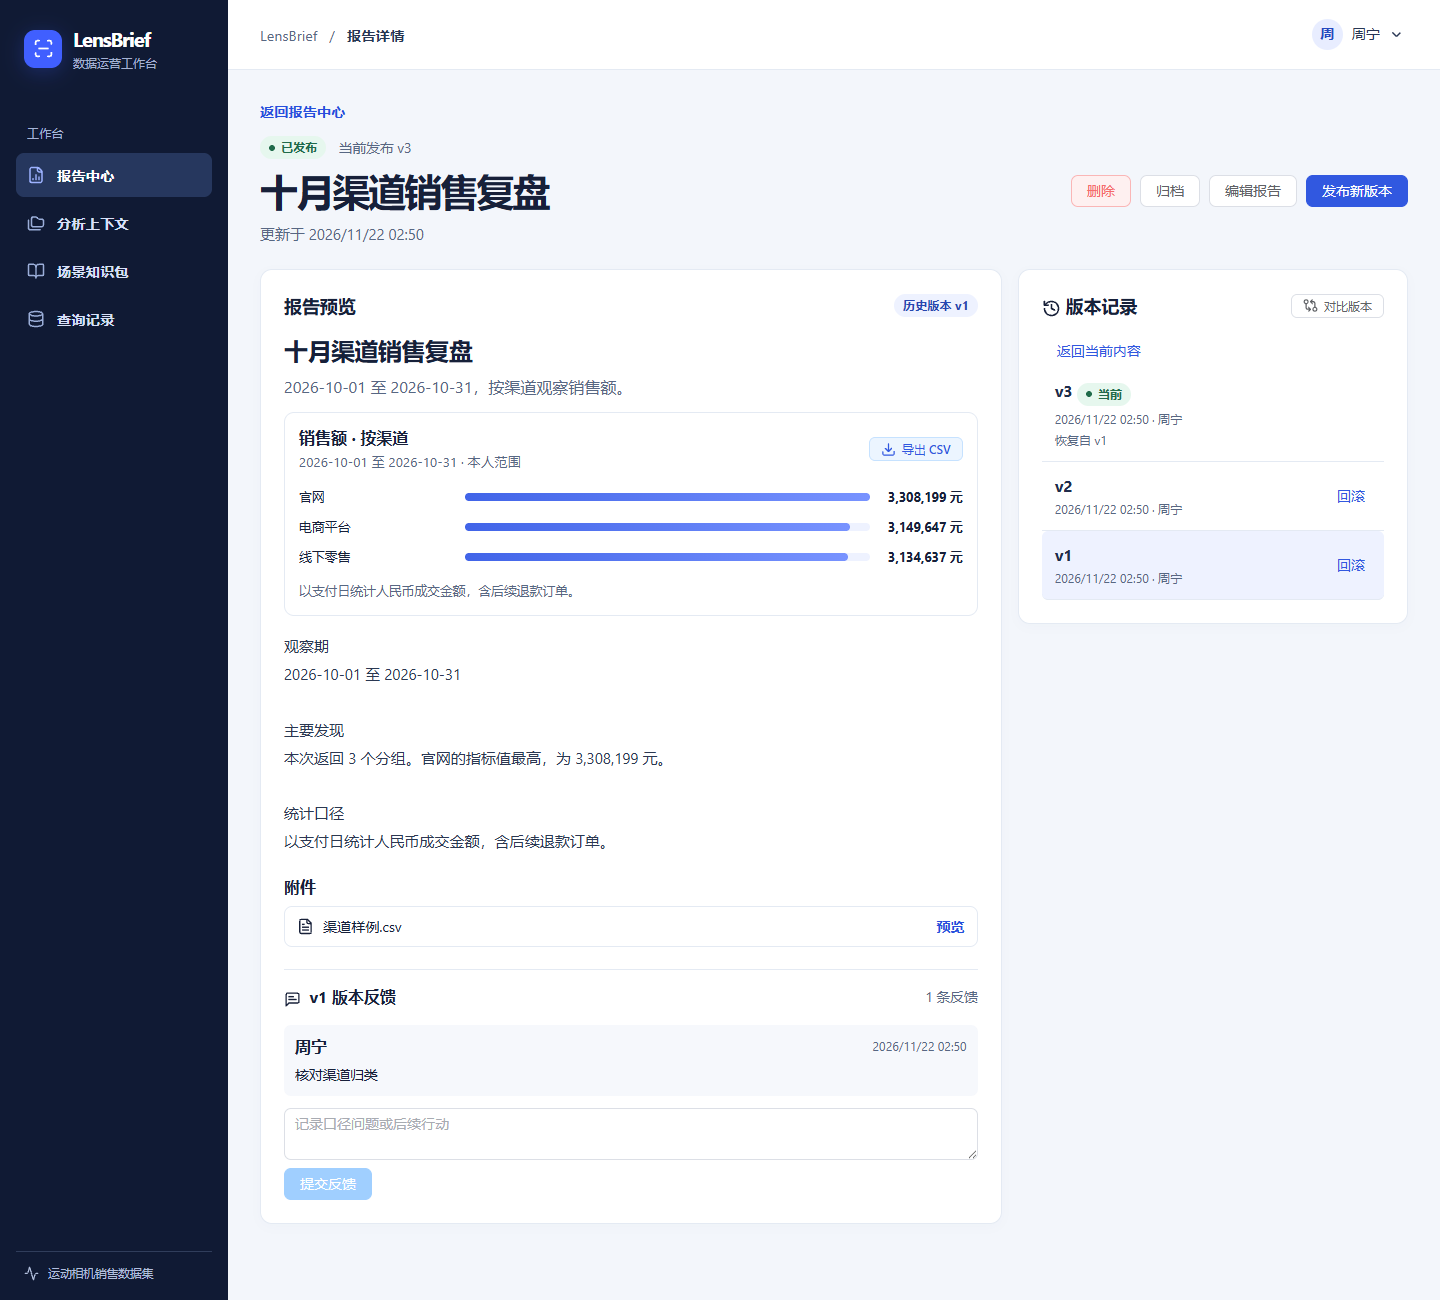
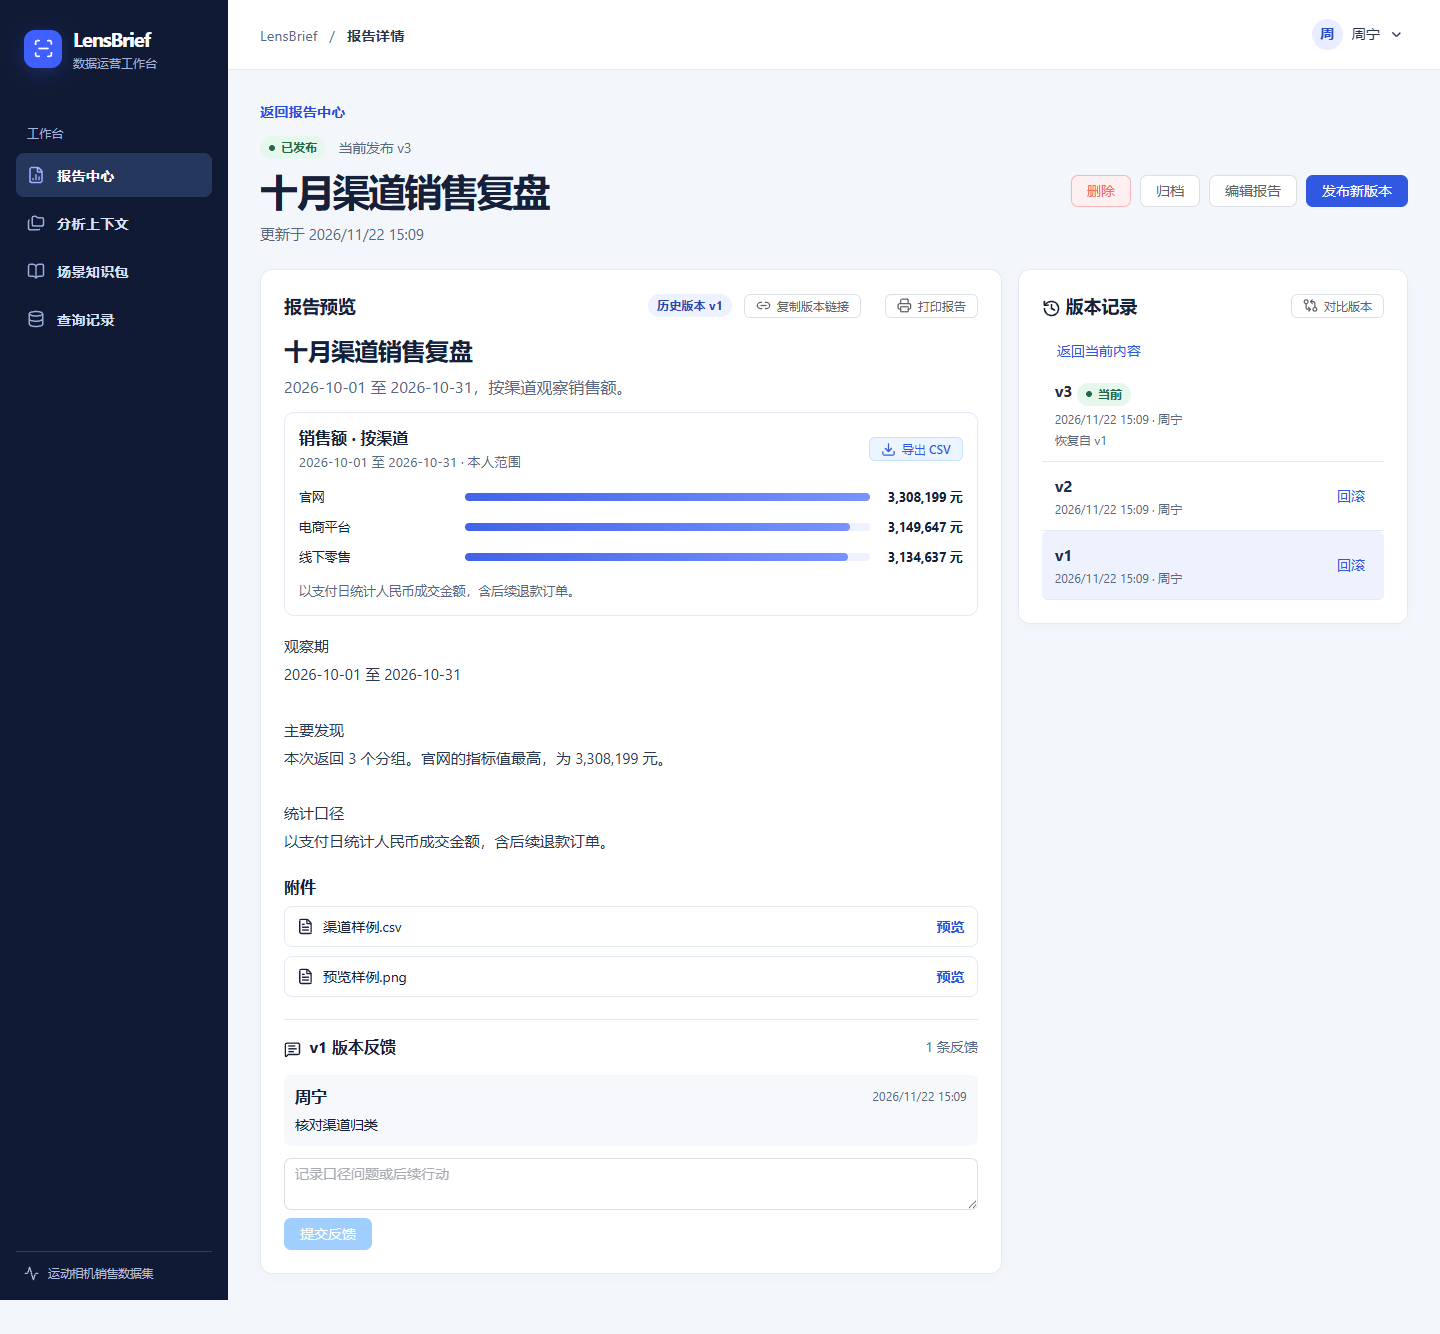
Copy stable report version links directly from the preview

diff --git a/frontend/src/views/ReportView.vue b/frontend/src/views/ReportView.vue
@@ -1,6 +1,6 @@
 <script setup lang="ts">
 import { ElMessage, ElMessageBox } from 'element-plus'
-import { FileText, GitCompareArrows, History, Printer } from '@lucide/vue'
+import { FileText, GitCompareArrows, History, Link2, Printer } from '@lucide/vue'
 import { computed, onMounted, onUnmounted, ref, watch } from 'vue'
 import { useRoute, useRouter } from 'vue-router'
 import { ApiError, api, errorText, params } from '../api'
@@ -104,6 +104,17 @@ function selectVersion(number: number | null) {
   return router.replace({ query: { ...route.query, version: number?.toString() } })
 }
 
+async function copyVersionLink(number: number) {
+  const { href } = router.resolve({ name: 'report', params: { id }, query: { version: number } })
+  try {
+    await navigator.clipboard.writeText(new URL(href, window.location.origin).href)
+    ElMessage.success('已复制 v' + number + ' 的链接')
+  } catch {
+    await selectVersion(number)
+    ElMessage.info('可从地址栏复制此版本链接。')
+  }
+}
+
 async function preview(number: number | null) {
   const request = ++previewRequest
   if (number === null) { selected.value = null; selectedNumber.value = null; return }
@@ -174,6 +185,7 @@ async function perform(action: 'publish' | 'archive' | 'remove' | 'rollback', nu
         <article ref="printable" class="panel printable-report">
           <div class="section-head print-hide"><h2>报告预览</h2>
             <div class="inline"><span class="version-label">{{ previewLabel }}</span>
+              <el-button v-if="discussionVersion" size="small" @click="copyVersionLink(discussionVersion)"><Link2 :size="15" /> 复制版本链接</el-button>
               <el-button size="small" @click="printReport"><Printer :size="15" /> 打印报告</el-button></div>
           </div>
           <div class="print-heading"><span>LensBrief · {{ discussionVersion ? 'v' + discussionVersion : '工作稿' }}</span><h1>{{ showing.title }}</h1></div>

diff --git a/frontend/src/style.css b/frontend/src/style.css
@@ -114,6 +114,7 @@ nav a.active svg { color: #9db2ff }
 .page-alert { margin: 14px 0 }
 .editor-grid, .detail-grid { display: grid; align-items: start; gap: 16px; grid-template-columns: minmax(0, 1.4fr) minmax(300px, 1fr) }
 .detail-grid { grid-template-columns: minmax(0, 1.9fr) minmax(285px, 1fr) }
+.printable-report .section-head .inline { flex-wrap: wrap }
 .form-panel { display: flex; flex-direction: column; gap: 10px }
 .form-panel h2 { margin-bottom: 5px }
 .form-panel label, .login-form label { display: block; color: #344461; font-size: .9rem; font-weight: 600; margin-top: 5px }

diff --git a/README.md b/README.md
@@ -112,7 +112,7 @@ erDiagram
 - JWT 有效期 8 小时，密码使用 Argon2 哈希。服务端每次请求读取有效角色。越权返回 403 并单独写入审计。管理员可筛选越权记录，核对账号、资源与被拒绝的权限。
 - 查询先按本人、部门或全部过滤事实表，再做聚合。查询记录还要满足当前有效的数据范围。报告表单允许有部门权限的账号选择本人或部门范围，解析、渠道目录和指标执行使用同一范围。报告可引用所有者的本人查询或归属部门的部门查询。
 - 编辑报告时可选择自己上传过的附件，并在多份报告中复用同一文件。附件预览和下载校验报告或指定版本的权限。支持 PNG、JPEG、未加密 PDF 和 UTF-8 CSV。CSV 预览仅传输文件信息、前 100 行和总行数，下载时再传输完整文件。
-- 运营和数据审核者可以在自己有权访问的发布版本下留下反馈。选择版本后，可用地址栏链接分享该版本。后续发布或回滚会生成独立版本，原反馈依然挂在讨论当时的版本上。归档后保留历史反馈。 [Gitea 的修订讨论实现](https://github.com/go-gitea/gitea/blob/main/services/pull/review.go)
+- 运营和数据审核者可以在自己有权访问的发布版本下留下反馈，并复制固定版本链接。后续发布或回滚会生成独立版本，原反馈依然挂在讨论当时的版本上。归档后保留历史反馈。 [Gitea 的修订讨论实现](https://github.com/go-gitea/gitea/blob/main/services/pull/review.go)
 - 报告预览和查询详情可导出当前已授权的聚合结果。历史版本的文件名带版本号，数值保留原精度，CSV 用 UTF-8 编码和 BOM，便于用 Excel 打开。 [Metabase 查询结果导出](https://github.com/metabase/metabase/blob/master/docs/questions/exporting-results.md)
 - 报告预览中的「打印报告」可打印当前所选版本，也可在浏览器中另存为 PDF。版面保留正文、指标、附件名称和知识口径，打印区域只包含报告正文区。
 - 按日查询展示趋势折线，缺失的中间日期留作断点，并保留可展开的原始数值表。 [Chart.js 折线图](https://github.com/chartjs/Chart.js/blob/master/docs/charts/line.md)
